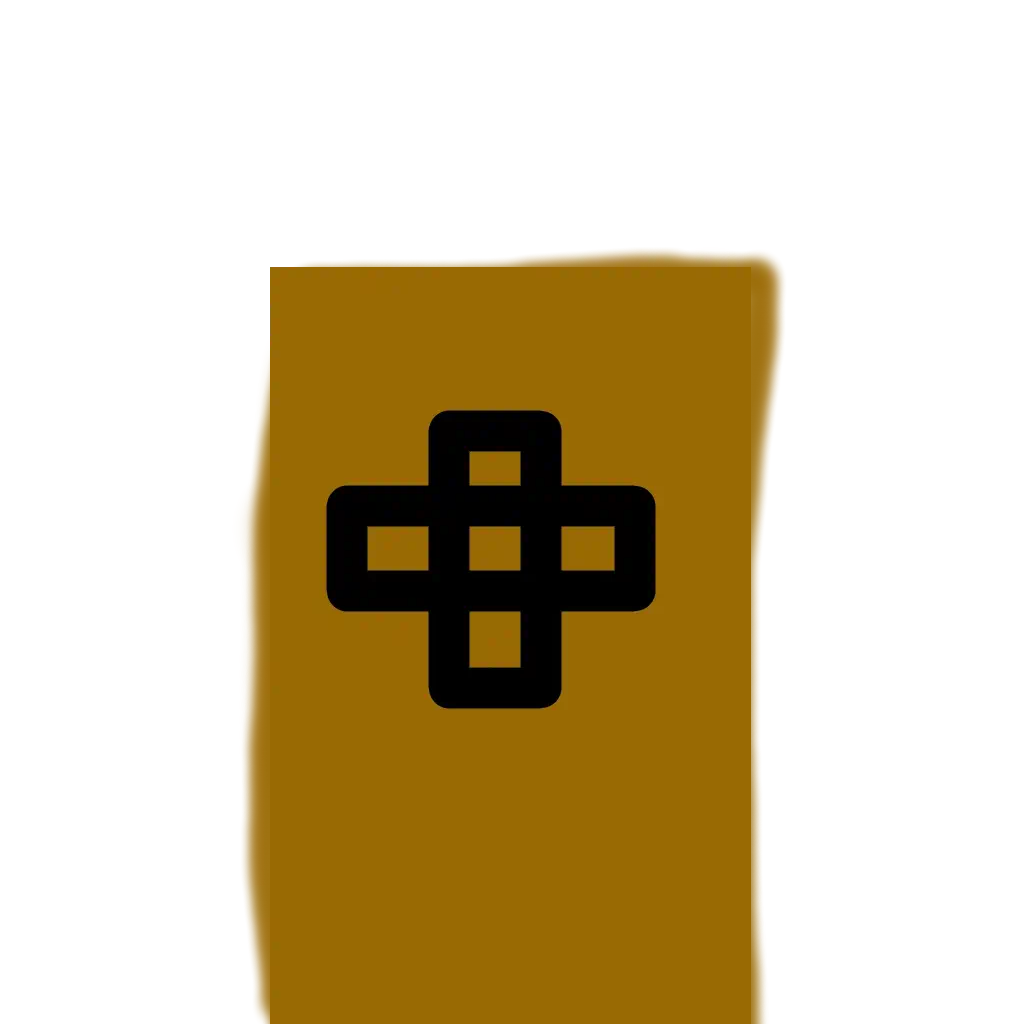
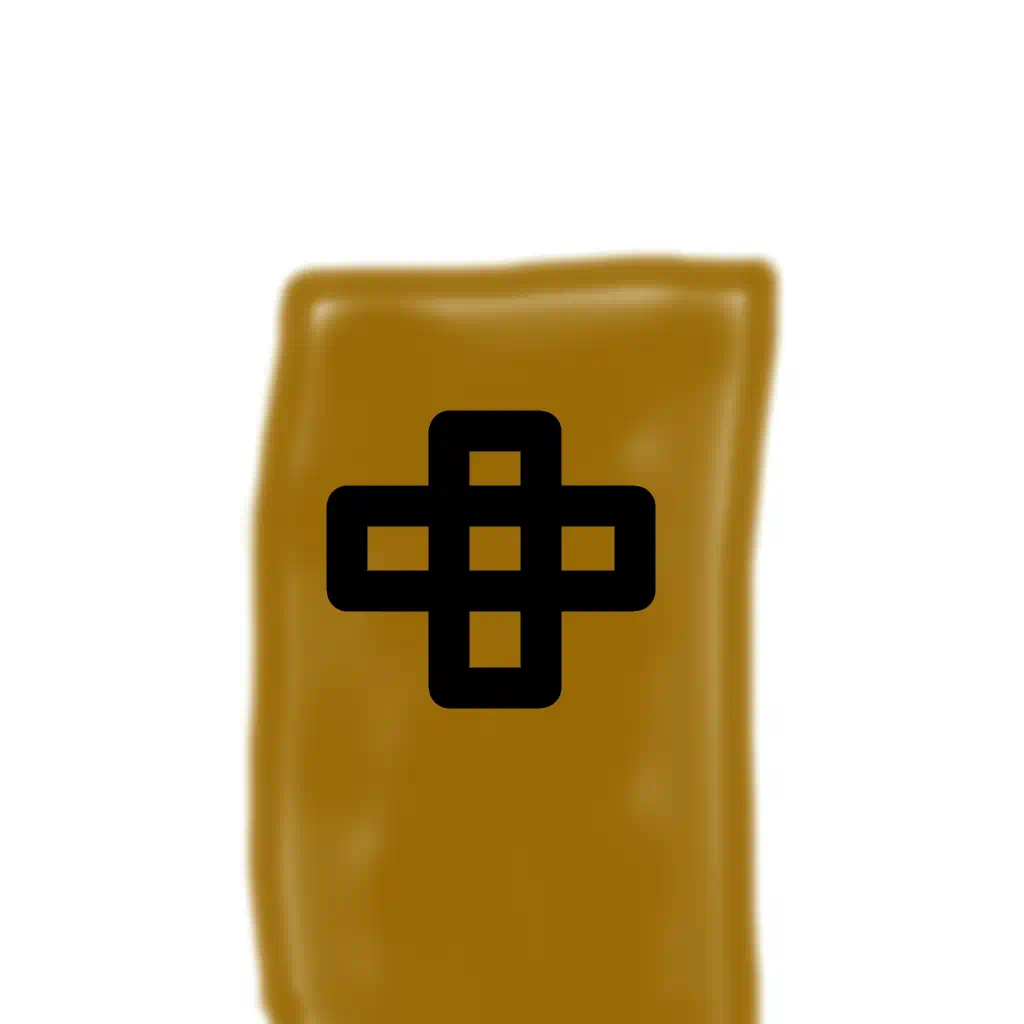
image rework, lots of playtest
kivy does not want to load .webp with an alpha channel

Changed region(s): [[0.25, 0.25, 0.75, 1.0], [0.25, 0.5625, 0.375, 1.0]]

diff --git a/worlds/nsmbw/NSMBW_client/NSMBWContext.py b/worlds/nsmbw/NSMBW_client/NSMBWContext.py
@@ -730,7 +730,7 @@ class NSMBWContext(SuperContext):
     async def check_1ups(self):
         checked_locations = []
         LEVEL = self.game_interface.get_modified_world_level_num_in_level()
-        if LEVEL != (0, 0):
+        if LEVEL == (0, 0):
             return checked_locations
 
         for player_num in range(PLAYER_COUNT):
@@ -912,60 +912,49 @@ class NSMBWContext(SuperContext):
                 continue
 
             exit_name = name_secret(secret_exit)
-            level_stats = bytes_to_int(self.game_interface.get_level_stats(world_num, level_num))
 
-            byte_to_check : int
             if secret_exit.exit_type == 1:
-                byte_to_check = 0x10
                 continue
-            elif secret_exit.exit_type == 2:
-                byte_to_check = 0x20
-            else:
-                raise ValueError(f"Something is wrong with SECRET_EXIT, {secret_exit} not in {SECRET_EXIT}")
 
 
-            if level_stats & byte_to_check == byte_to_check:
+            if level_status & 0x20 == 0x20:
                 if not NSMBWworld.location_name_to_id[exit_name] in self.locations_handled:
                     checked_locations.append(NSMBWworld.location_name_to_id[exit_name])
                     self.completed_levels.append(exit_name)
                     print(f"You collected a check for {exit_name}")
                 if (not exit_name in self.unlocked_secret_exits) or (not self.is_world_part2_unlocked(world_num)):
-                    self.game_interface.set_level_stats(world_num, level_num, int_to_bytes(level_stats - byte_to_check,1))
+                    self.game_interface.set_level_stats(world_num, level_num, int_to_bytes(level_status - 0x20,1))
             elif (exit_name in self.unlocked_secret_exits) and (exit_name in self.completed_levels) and (self.is_world_part2_unlocked(world_num)):
-                self.game_interface.set_level_stats(world_num, level_num, int_to_bytes(level_stats + byte_to_check, 1))
+                self.game_interface.set_level_stats(world_num, level_num, int_to_bytes(level_status + 0x20, 1))
                 self.completed_levels.remove(exit_name)
                 logger.info(f"Exit {exit_name} have been unlocked")
 
         for world_num in range(1,8+1):
-
             #tower logc?
             level_name = name_tower_clear(world_num)
             level_num = 7
             level_num += 1 if world_num in  [7,8] else 0
-            level_stats = self.game_interface.get_level_stats(world_num, level_num)[0]
-            if level_stats & 0x10 == 0x10:
+            if (world_num, level_num) != level:
+                continue
+
+            if level_status & 0x10 == 0x10:
                 if not (NSMBWworld.location_name_to_id[level_name] in self.locations_handled):
                     checked_locations.append(NSMBWworld.location_name_to_id[level_name])
+                    logger.info(f"You collected a check for completing {level_name}, to unlock the rest of this world, receive its AP-item.")
                 if self.unlocked_worlds[world_num - 1] <= 1:
                     if not (level_name in self.completed_levels):
                         self.completed_levels.append(level_name)
-                    #self.game_interface.set_level_stats(world_num, level_num, int_to_bytes(level_stats &  0x27,1))
-                    logger.info(f"You collected a check for completing {level_name}, to unlock the rest of this world, receive its AP-item.")
-            #else:
-            #    if unlocked_worlds[world_num-1] >= 2:
-            #        if level_name in self.completed_levels:
-            #            self.game_interface.set_level_stats(world_num, level_num, int_to_bytes(level_stats + 0x10,1))
-            #            self.completed_levels.remove(level_name)
-            #            logger.info(f"Second half of world {world_num} is unlocked")
-            #            # if reset this value then maybe will not move to next world
 
-
+        for world_num in range(1, 8 + 1):
             #castle logic
             # and logic for completing world
             if world_num != 8:
                 level_name = name_world_clear(world_num)
                 level_num = 8 # should make dynamic
                 level_num += 1 if world_num in  [4,6,7,8] else 0
+                if (world_num, level_num) != level:
+                    continue
+
                 level_stats = self.game_interface.get_level_stats(world_num, level_num)[0]
                 if level_stats & 0x10 == 0x10:
                     if not (NSMBWworld.location_name_to_id[level_name] in self.locations_handled):
@@ -1222,13 +1211,12 @@ class NSMBWContext(SuperContext):
         await self.set_starting_world()
 
         # when leaving a level the game somtimes freezes when world1 is not unlocked
+        second_half : int
         match self.slot_data["world_unlock"]:
             case WorldUnlock.option_separate:
                 second_half = 0
                 for world_num in range(1, 8 + 1):
-                    second_half = (second_half << 1)
-                    if (self.unlocked_worlds[world_num - 1] >= 2):
-                        second_half += 1
+                    second_half += (self.unlocked_worlds[world_num - 1]) >= 2 << (world_num-1)
             case WorldUnlock.option_single:
                 second_half = 2 ** 8 - 1
             case WorldUnlock.option_progressive:
@@ -1500,7 +1488,7 @@ When Mario leaves his place of safety to stomp a turty, he knows that he may Die
 
     async def handle_boss_health(self):
         if self.slot_data["randomize_boss_health"] != 0:
-            self.game_interface.set_boss_health(10 - self.boss_health)
+            self.game_interface.set_boss_health(max(10 - self.boss_health, 1))
 
     async def handle_modifiers(self, text : bool = True):
         now = time.time()
@@ -1681,7 +1669,7 @@ When Mario leaves his place of safety to stomp a turty, he knows that he may Die
 
         for world_num in range(1,9+1):
             for level_num in range(1, LEVELS_PER_WORLD[world_num - 1] + 1):
-                current_bytes = bytes_to_int(self.game_interface.get_level_stats(world_num, level_num))
+                current_bytes = bytes_to_int(self.game_interface.get_level_stats(*level_randoed_bijection(self.slot_data["shuffled_level_order"],world_num, level_num)))
 
                 if self.slot_data["starcoin_sanity"] == True:
                     for sc_num in range(1,3+1):
@@ -1708,7 +1696,7 @@ When Mario leaves his place of safety to stomp a turty, he knows that he may Die
                             #print(f"What is happening with {NSMBWworld.location_name_to_id[name_level(world_num, level_num)]}, {name_base(world_num, level_num)}")
 
 
-                self.game_interface.set_level_stats(world_num, level_num, int_to_bytes(current_bytes,1))
+                self.game_interface.set_level_stats(*level_randoed(self.slot_data["shuffled_level_order"], world_num, level_num), int_to_bytes(current_bytes,1))
 
     def log_color(self, text: str, color: str = "red") -> None:
         text_msg : JSONMessagePart= {"type": "color",

diff --git a/worlds/nsmbw/NSMBW_client/patcher.py b/worlds/nsmbw/NSMBW_client/patcher.py
@@ -234,15 +234,15 @@ class Patcher:
 
     def patch_details(self, generating = False) -> List[tuple[str,str,str]]:
         PatchDetails : List[tuple[str,str,str]] = [
-            ("star_coin", "Object", "Object"),
-            ("openingTitle", os.path.join(RegionNames[self.region], "Layout", "openingTitle"), "Layout"),
-            ("key_boss_castle", "Object", "Object"),
+            ("star_coin.arc", "Object", "Object"),
+            ("openingTitle.arc", os.path.join(RegionNames[self.region], "Layout", "openingTitle"), "Layout"),
+            ("key_boss_castle.arc", "Object", "Object"),
         ]
         if generating:
             _from = self.apnsmbw_file.parent / "nsmbw" / "dev_files" / "riivolution_patch_data_origin"
             assert _from.exists()
             for level_to_patch in os.listdir(_from / "Stage"):
-                name = level_to_patch.replace(".arc", "")
+                name = level_to_patch
                 PatchDetails.append((name, "Stage", "Stage"))
         elif not self.slot_data["level_shuffle"]:
             for level_to_patch in os.listdir(self.bsdiff_patch_dir / "Stage"):
@@ -273,9 +273,9 @@ class Patcher:
         self.extract_bsdiff()
 
         for name, folder_source, folder_patch in self.patch_details():
-            original_file_loc = self.temp_dir / "files" / folder_source / f"{name}.arc"
+            original_file_loc = self.temp_dir / "files" / folder_source / f"{name}"
             assert original_file_loc.exists(), f"folder {original_file_loc} does not exist"
-            destination_path = self.output_path / folder_patch / f"{name}.arc"
+            destination_path = self.output_path / folder_patch / f"{name}"
             destination_path.parent.mkdir(exist_ok=True, parents=True)
 
 
@@ -444,6 +444,7 @@ class Patcher:
         original_file_loc = self.temp_dir / "files" / "Stage" / _from
         destination_path = self.output_path / "Stage" / _to
 
+        assert path_data_loc.parent.exists()
         if path_data_loc.exists():
             bsdiff4.file_patch(original_file_loc, destination_path, path_data_loc)
         else:
@@ -694,7 +695,7 @@ if __name__ == "__main__":
     _seed = "0123456789"
     level_order = list(range(sum(LEVELS_PER_WORLD)))
     random.shuffle(level_order)
-    _slot_data = { "level_shuffle" : 0,
+    _slot_data = { "level_shuffle" : 1,
                    "music_shuffle" : 1,
                    "shuffled_level_order" : level_order,
                    "background_shuffle" : 0,
@@ -721,7 +722,7 @@ if __name__ == "__main__":
     assert short_cut_path.exists(), ""
     if True:
         pass
-        subprocess.Popen([str(dolphin_path), "-e", str(short_cut_path)])
+        #subprocess.Popen([str(dolphin_path), "-e", str(short_cut_path)])
 
 
 

diff --git a/worlds/nsmbw/NSMBW_client/NSMBWInterface.py b/worlds/nsmbw/NSMBW_client/NSMBWInterface.py
@@ -78,6 +78,7 @@ class NSMBWInterface(object):
     random : Random
 
     slot_data : dict
+    patch_runtime : bool = False
 
     def __init__(self, logger: Logger, log_color) -> None:
         self.logger = logger
@@ -637,8 +638,10 @@ class NSMBWInterface(object):
 
 
     async def patch_runtime_on_load(self):
-        self.apply_patch(self.memory_addresses.patches)
-        self.set_level_unlock_type(self.slot_data["level_unlock"])
+        if not self.patch_runtime:
+            self.apply_patch(self.memory_addresses.patches)
+            self.set_level_unlock_type(self.slot_data["level_unlock"])
+            self.patch_runtime = True
 
 
     @staticmethod
@@ -649,7 +652,7 @@ class NSMBWInterface(object):
         if world_num > 10:
             return 0, 0
 
-        if level_num >= 40 or level_num in [39]:
+        if level_num >= 40 or level_num in [8,9,10,39]:
             return 0,0
 
         if world_num == 9:
@@ -667,7 +670,7 @@ class NSMBWInterface(object):
             elif level_num in [24, 25]:  # castle
                 level_num = 8 + (world_num in [7, 8])
             elif level_num == 38:  # airship
-                assert world_num in [4, 6, 8], f"world {world_num} doesnt have an airship"
+                #assert world_num in [4, 6, 8], f"world {world_num} doesnt have an airship"
                 level_num = 9 + (world_num in [8])
             else:
                 raise ValueError(f"level_num: {level_num} is not acounted for")

diff --git a/worlds/nsmbw/NSMBW_client/memoryAddresses.py b/worlds/nsmbw/NSMBW_client/memoryAddresses.py
@@ -101,7 +101,7 @@ class MemoryAddresses(object):
         # memory map doesnt work for this for some reason
         #self.powerup_state = 0x8154CCE7
 
-        self.mario_lifecount = [self.map_between("E2",0x80354E90+i*2) for i in range(PLAYER_COUNT)] # JUST GEUSSING DATA STRUCTURE
+        self.mario_lifecount = [self.map_between("E2",0x80354E90+i*4) for i in range(PLAYER_COUNT)] # JUST GEUSSING DATA STRUCTURE
         assert len(self.mario_lifecount) == PLAYER_COUNT, f"Mario life count address list is of wrong size {len(self.mario_lifecount)}"
 
         self.on_map = self.map_between("E2",0x80424798)
@@ -346,7 +346,12 @@ class MemoryAddresses(object):
         ]
 
         #// Always go to the next world when the castle level is completed, reversed from mkwcat pipe rando
-        patch_skipp_move_next_world = [self.create_patch("P1", 0x808cc9e0, instru_noop, name="skipp_move_next_world")]
+        patch_skipp_move_next_world = [
+            #self.create_patch("P1", 0x808CC968, 0x41820050, name="skipp_move_next_world"), # beq instru
+            #self.create_patch("P1", 0x808CC970, 0x41820048, name="skipp_move_next_world"), # beq instru
+            self.create_patch("P1", 0x808cc9e0, instru_noop, name="skipp_move_next_world"),
+            self.create_patch("P1", 0x808cc9ec, instru_noop, name="skipp_move_next_world"),
+        ]
 
 
         #Always can save patches, from mkwcat pipe rando

diff --git a/worlds/nsmbw/raw_rules.py b/worlds/nsmbw/raw_rules.py
@@ -314,7 +314,7 @@ LevelRules : Dict[str, Level]= { # normal compleation rules
     "8-7"  : Level(pipe & button_down & button_up & normal_move & TimeRule(200), (True_(), True_(), True_())),  # -7
     "8-Tower"  : Level(pipe & button_down & button_up & normal_move&tower_rules & TimeRule(200), (True_(), True_(), True_())),  # -8 8-Tower
     "8-Castle"  : Level(normal_move & door & button_down & pipe & ((propeller & crouch) | logic_hard), (True_(), True_(), True_())),  # -9 8-Castle
-    "8-Airship"  : Level(pipe & button_down & normal_move & ground_pound & spin_jump , (True_(), True_(), propeller | (ground_pound & ((mini_o & (wall_jump | run)) | (logic_hard & run & carry))))),  # -10 8-Airship
+    "8-Airship"  : Level(pipe & button_down & normal_move & ground_pound & spin_jump & super_mario, (True_(), True_(), propeller | (ground_pound & ((mini_o & (wall_jump | run)) | (logic_hard & run & carry))))),  # -10 8-Airship
 # world 9
     "9-1"  : Level(pipe & button_down & button_up & normal_move, (logic_normal | propeller | mini_o, True_(), True_())),  # -1
     "9-2"  : Level(pipe & button_down & button_up & normal_move & (mini_o | (run & climb) | swim | (peng_o & crouch & run)) & (run | logic_hard), (True_(), swim, (carry & ((mini_o & ground_pound) | (run & climb) | swim)) | (peng_o & crouch & run))),  # -2

diff --git a/worlds/nsmbw/locations.py b/worlds/nsmbw/locations.py
@@ -362,7 +362,7 @@ def shuffle_level_order(world: NSMBWworld) -> bool:
         def shuffle_req(shuffled_level_order) -> bool:
             _list = [
                 level_randoed_bijection(shuffled_level_order, 3,4, try_=True) != (3,5),
-                name_base(*level_randoed_bijection(world.shuffled_level_order, 7, 9, try_=True), assert_=False) in (seven_castle_allowed+ [("0-0")]), # add 0,0 because allow to fail if not shuffled
+                name_base(*level_randoed(world.shuffled_level_order, 7, 9, try_=True), assert_=False) in (seven_castle_allowed+ [("0-0")]), # add 0,0 because allow to fail if not shuffled
                 all([(level_randoed_bijection(shuffled_level_order, secret_exit[0], secret_exit[1], try_=True) in (all_secret_exits + [(0,0)])     ) for secret_exit in all_secret_exits]),
                 all([(level_randoed(          shuffled_level_order, secret_exit[0], secret_exit[1], try_=True) in (all_secret_exits + [(0,0)])     ) for secret_exit in all_secret_exits]),
 

diff --git a/worlds/nsmbw/dev_files/generate_diff_files.py b/worlds/nsmbw/dev_files/generate_diff_files.py
@@ -33,15 +33,15 @@ def gen_diff_files():
         assert path_data_loc.parent.exists()
 
 
-        original_file_loc = _patcher.temp_dir / "files" / folder_source / f"{name}.arc"
-        assert original_file_loc.exists()
+        original_file_loc = _patcher.temp_dir / "files" / folder_source / f"{name}"
+        assert original_file_loc.exists(), original_file_loc
 
-        destination_path = _from / folder_patch / f"{name}.arc"
+        destination_path = _from / folder_patch / f"{name}"
         destination_path.parent.mkdir(exist_ok=True, parents=True)
 
         bsdiff4.file_diff(original_file_loc, destination_path, path_data_loc)
         assert destination_path.exists()
-        print(f"Successfully wrote patch to {path_data_loc}")
+        print(f"Successfully wrote patch {name}")
 
 
 if __name__ == "__main__":

diff --git a/worlds/nsmbw/options.py b/worlds/nsmbw/options.py
@@ -528,11 +528,16 @@ class LevelShuffle(Choice):
 class LevelShuffleBossLock(Choice):
     """
     Wherther too allow boss levels to be freely placed or for they to stay in their vanilla placements (just shuffled around)
+    nolock : Places no restriction on level placement
+    lock_types : Airships to airships, castles to castles, towers to towers
+    lock_end_of_world : The last level of each world will have a bossfight
     """
     option_nolock = 0
     option_lock_types = 3
     option_lock_placements = 5
     option_lock_end_of_world = 7
+
+    default = option_lock_placements
 
 # - also i was thinking about the randomization itself and i agree that the world clears should end on boss stages but why not let it be any boss level?
 

diff --git a/worlds/nsmbw/NSMBW_client/riivolution_patch/Kamek-Ninja-Template/src/worldmap.cpp b/worlds/nsmbw/NSMBW_client/riivolution_patch/Kamek-Ninja-Template/src/worldmap.cpp
@@ -53,15 +53,15 @@ kmBranchDefCpp(0x800fae70, 0x800faeb0, bool, int param_1, int param_2)
 
     }
 
-    world_unlocked >> (7-world);
+    world_unlocked << (7-world);
     world_unlocked = world_unlocked & 1;
 
 
     bool cleared = IsCourseOmoteClear(param_1, param_2); // default
 
-    if (world == 7 and level == 38){
+    if (world == 7 and level == 37){
         cleared =  bowser_unlock == 1;
-    } else if ((level > 10) && (world_unlocked == 0)) {
+    } else if ((level == 21) && (world_unlocked == 0)) {
         // this code dissables towers if not enabled second half
         cleared =  false;
     } else {

diff --git a/worlds/nsmbw/Common.py b/worlds/nsmbw/Common.py
@@ -197,7 +197,7 @@ def name_base(world_num : int, level_num : int, assert_=True) -> str:
 
 def assert_valid_level(world_num : int, level_num : int) -> None:
     assert 1 <= world_num <= 10, f"world {world_num} is invalid"
-    assert 1 <= level_num <= LEVELS_PER_WORLD[world_num-1], f"Level {level_num} is not valid for world {world_num}"
+    assert 1 <= level_num <= 10, f"Level {level_num} is not valid for world {world_num}"
 
 def name_level(world_num : int, level_num : int) -> str:
     return f"{name_base(world_num,level_num)} clear"

diff --git a/worlds/nsmbw/dev_files/dev_docs/TODO.md b/worlds/nsmbw/dev_files/dev_docs/TODO.md
@@ -1,29 +1,12 @@
 # TODO 
 # Super Short term
-- remove background off tracker items
 
 
 ## Playtest
-- bowser_level_unlock 
-- roulette and red coin : more
-- PercentageFillerForcedLocal
-- world unlock logic change for 8-2, 7-T
-- Test remaining 7-C rando
-- 8-Castle is correctly locked in new system
-- require second world unlock to unlock 7-6 and 8-7
-- Secret exits are properly level randoed
-- Secret exits have their logic properlly
-- multiplayer : 
-  - second player dont collect starcoin immediately
-  - The extra lives filler does NOT work properly with multiple people; I was player 2, and my lives were set to 94 and 88 at two separate points when the filler was only supposed to give 5 extra lives. I do wonder if this is only visual, though, cause a couple levels later, my lives would always revert down to a smaller number
-- Level patch 8-A
+- Go to next world after beating airship
 
 
 ## Bugs to fix
-- Go to next world after beating airship
-- Does secret exit apply its rules correct
-- sometimes freeze after paus menu
-- bowser lock in client 
 
 
 fuzzing error
@@ -108,7 +91,7 @@ fuzzing error
 - Ask in NSMBW dc how difficult adding UI elements is.
 - Rename raw rules to rule_data?
 - Work on FINAL MOVMENETS : so REACT can start on block logic ? 
-- if on all levels unlocked does secret exits always open
+- fix webp alpha images not loading
 
 
 ## Logic
@@ -232,6 +215,8 @@ These 2 yaml restraints fixes most of fuzzing errors, especially `starcoin_requi
 - Hint movies and level shuffle cannot coexist
 - After i beat the mushroom house it just freezes me there
 - I understand for the ones that are just jingles, but a lot of others like the world map themes wouldn't loop if they were put in a level
+- sometimes freeze after paus menu
+  - after loading savestate when the riivo patch have been redone
 
 
 Summery poll
